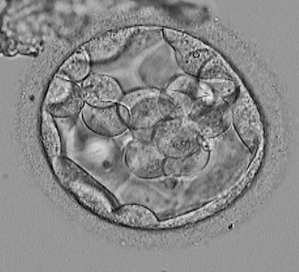
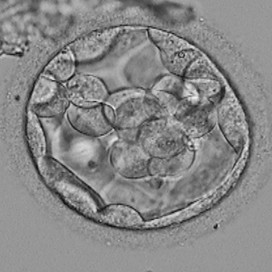
holy dtm

diff --git a/projects/quickbuild.md b/projects/quickbuild.md
@@ -1,7 +1,7 @@
 ---
 layout: project
 type: project
-image: img\IMG_8455.jpg
+image: img\kalihi.jpg
 title: "Quick Build Project Selection Matrix"
 date: 2026-06
 published: true
